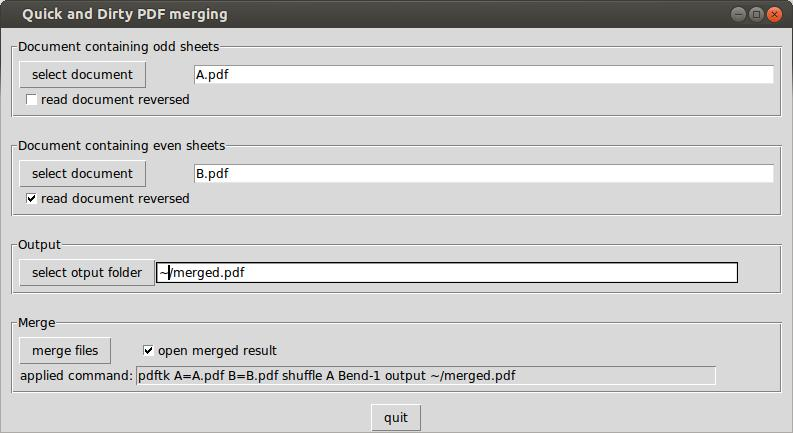
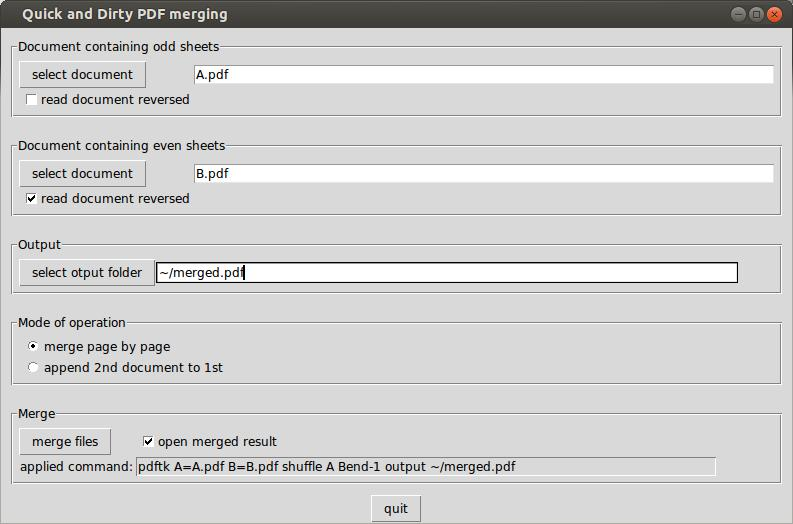
cleanup

Changed region(s): [[0.0, 0.0, 1.0, 1.0]]

diff --git a/bin/mergepdf.py b/bin/mergepdf.py
@@ -27,14 +27,9 @@ class MergePdfGui:
         self.defaultTextfieldWidth = 72
 
         self.isReverseDocumentBCheckboxValue = IntVar(False)
-        self.isReverseDocumentB = False
         self.isReverseDocumentACheckboxValue = IntVar(False)
-        self.isReverseDocumentA = False
-
         self.operationModeRadioButtonValue = StringVar()
-
         self.doOpenResultCheckboxValue = IntVar(False)
-        self.doOpenResult = False
         
         self.openFileOptions = {}
         self.openFileOptions['defaultextension'] = '.pdf'
@@ -51,33 +46,34 @@ class MergePdfGui:
         self.openDirectoryOptions['parent'] = self.rootWindow
         self.openDirectoryOptions['title'] = '"Select output directory"'
 
-    def __selectEvenPages(self):
-        self.openFileOptions["initialdir"] = self.__getLastAccessedFolder()
+    def __onSelectEvenPagesCallback(self):
+        self.openFileOptions["initialdir"] = self.__lastAccessedFolder()
         self.openFileOptions['title'] = "Select even pages"
         f = tkFileDialog.askopenfile(mode='r', **self.openFileOptions)
         self.evenPdfEntry.delete(0, END)
         self.evenPdfEntry.insert(0, f.name)
-        self.__updateAction()
         self.__setLastAccessedFolder(path.dirname(f.name))
+        self.__updateAction()
         return f
 
-    def __selectOddPages(self):
-        self.openFileOptions["initialdir"] = self.__getLastAccessedFolder()
+    def __onSelectOddPagesCallback(self):
+        self.openFileOptions["initialdir"] = self.__lastAccessedFolder()
         self.openFileOptions['title'] = "Select odd pages"
         f = tkFileDialog.askopenfile(mode='r', **self.openFileOptions)
         self.oddPdfEntry.delete(0, END)
         self.oddPdfEntry.insert(0, f.name)
-        self.__updateAction()
         self.__setLastAccessedFolder(path.dirname(f.name))
+        self.__updateAction()
         return f
 
-    def __selectOutDirectory(self):
-        self.openDirectoryOptions["initialdir"] = self.__getLastAccessedFolder()
+    def __onSelectOutDirectoryCallback(self):
+        self.openDirectoryOptions["initialdir"] = self.__lastAccessedFolder()
         self.openDirectoryOptions['title'] = "Select output directory"
         f = tkFileDialog.askdirectory(**self.openDirectoryOptions)
         self.outPdfEntry.delete(0, END)
         self.outPdfEntry.insert(0, "%s/merged.pdf" % (f))
         self.__setLastAccessedFolder(f)
+        self.__updateAction()
         return f
 
     def __updateAction(self):
@@ -85,76 +81,77 @@ class MergePdfGui:
         self.actionEntry.delete(0, END)
 
         reversedArgumentA=""
-        if self.isReverseDocumentA:
+        if self.isReverseDocumentACheckboxValue.get():
             reversedArgumentA="end-1"
 
         reversedArgumentB=""
-        if self.isReverseDocumentB:
+        if self.isReverseDocumentBCheckboxValue.get():
             reversedArgumentB="end-1"
 
         self.actionEntry.insert(0, "pdftk A=%s B=%s %s A%s B%s output %s"
                                 %(self.oddPdfEntry.get(),
                                   self.evenPdfEntry.get(),
-                                  self.__getOperationMode(),
+                                  self.__operationMode(),
                                   reversedArgumentA,
                                   reversedArgumentB,
                                   self.outPdfEntry.get()))
         self.actionEntry.configure(state='readonly')
 
-    # read state from shelve
-    def __getIsReverseDocumentdA(self):
-        if self.shelve.has_key("reverseA"):
-            return self.shelve["reverseA"]
+    # read value from shelve
+    def __readValueFromStore(self, index, defaultValue):
+        if self.shelve.has_key(index):
+            return self.shelve[index]
         else:
-            return False
+            return defaultValue
 
-    # store state to shelve
-    def __setIsReverseDocumentA(self, isReverseDocumentA):
-        self.shelve["reverseA"] = isReverseDocumentA
+    # write value to shelve
+    def __writeValueToStore(self, index, value):
+        self.shelve[index] = value
 
-    # read state from shelve
-    def __getIsReverseDocumentdB(self):
-        if self.shelve.has_key("reverseB"):
-            return self.shelve["reverseB"]
-        else:
-            return False
+    def __isReverseDocumentdA(self):
+        return self.__readValueFromStore("reverseA", False)
 
-    # store state to shelve
-    def __setIsReverseDocumentB(self, isReverseDocumentB):
-        self.shelve["reverseB"] = isReverseDocumentB
+    def __isReverseDocumentdB(self):
+        return self.__readValueFromStore("reverseB", False)
 
-    # read state from shelve
-    def __getLastAccessedFolder(self):
-        if self.shelve.has_key("folder"):
-            return self.shelve["folder"]
-        else:
-            return "~"
+    def __lastAccessedFolder(self):
+        return self.__readValueFromStore("folder", "~")
 
-    # store state to shelve
     def __setLastAccessedFolder(self, folder):
-        self.shelve["folder"] = folder
+        self.__writeValueToStore("folder", folder)
 
     # read state from shelve
-    def __getDoOpenResult(self):
-        if self.shelve.has_key("openResultAfterMerge"):
-            return self.shelve["openResultAfterMerge"]
-        else:
-            return False
-
-    # store state to shelve
-    def __setDoOpenResult(self, doOpenResult):
-        self.shelve["openResultAfterMerge"] = doOpenResult
+    def __isOpenResultChecked(self):
+        return self.__readValueFromStore("openResultAfterMerge", False)
 
     # read state from shelve
-    def __getOperationMode(self):
-        if self.shelve.has_key("operationMode"):
-            return self.shelve["operationMode"]
-        else:
-            return "shuffle"
+    def __operationMode(self):
+            return self.__readValueFromStore("operationMode", "shuffle")
 
-    # store state to shelve
-    def __setOperationMode(self, operationMode):
-        self.shelve["operationMode"] = operationMode
+    def __onModeChangedCallback(self):
+         self.__writeValueToStore("operationMode", self.operationModeRadioButtonValue.get())
+         self.__updateAction()
+
+    def __onDoOpenResultCheckboxCallback(self):
+        value = False
+        if self.doOpenResultCheckboxValue.get():
+            value = True
+        self.__writeValueToStore("openResultAfterMerge", value)
+
+    def __onIsReverseDocumentBCheckboxCallback(self):
+        value = False
+        if self.isReverseDocumentBCheckboxValue.get():
+            value = True
+        self.__writeValueToStore("reverseB", value)
+        self.__updateAction()
+
+    def __onIsReverseDocumentACheckboxCallback(self):
+        value = False
+        if self.isReverseDocumentACheckboxValue.get():
+            value = True
+        self.__writeValueToStore("reverseA", value)
+        self.__updateAction()
+
 
     def __quit(self):
         self.shelve.close()
@@ -162,62 +159,63 @@ class MergePdfGui:
 
     def __initWindow(self):
         docAGroup = LabelFrame(self.rootWindow, text="Document containing odd sheets", padx=5, pady=5)
-        #docAGroup.grid(row=2, column=0, columnspan=2)
         docAGroup.pack(padx=10, pady=10,fill='x')
-
-        Button(docAGroup, text ="select document", command = self.__selectOddPages).grid(row=0, column=0,sticky=W)
+        Button(docAGroup, text ="select document", command = self.__onSelectOddPagesCallback).grid(row=0, column=0,sticky=W)
         self.oddPdfEntry = Entry(docAGroup, width = self.defaultTextfieldWidth)
         self.oddPdfEntry.grid(row=0, column=1,sticky=W)
 
-        isReversedeACheckBtn = Checkbutton(docAGroup, text="read document reversed", variable=self.isReverseDocumentACheckboxValue, command=self.__isReverseDocumentACheckboxCallback)
+        isReversedeACheckBtn = Checkbutton(docAGroup, text="read document reversed",
+                                           variable=self.isReverseDocumentACheckboxValue,
+                                           command=self.__onIsReverseDocumentACheckboxCallback)
         isReversedeACheckBtn.grid(row=1, column=0, sticky=W)
-        if self.__getIsReverseDocumentdA():
+        if self.__isReverseDocumentdA():
             isReversedeACheckBtn.select()
 
 
         docBGroup = LabelFrame(self.rootWindow, text="Document containing even sheets", padx=5, pady=5)
-        #docBGroup.grid(row=2, column=0, columnspan=2)
         docBGroup.pack(padx=10, pady=10,fill='x')
-
-        Button(docBGroup, text ="select document", command = self.__selectEvenPages, justify=LEFT).grid(row=0, column=0,sticky=W)
+        Button(docBGroup, text ="select document", command = self.__onSelectEvenPagesCallback, justify=LEFT).grid(row=0, column=0,sticky=W)
         self.evenPdfEntry =  Entry(docBGroup, width = self.defaultTextfieldWidth)
         self.evenPdfEntry.grid(row=0, column=1)
 
-        isReversedBCheckBtn = Checkbutton(docBGroup, text="read document reversed", variable=self.isReverseDocumentBCheckboxValue, command=self.__isReverseDocumentBCheckboxCallback)
+        isReversedBCheckBtn = Checkbutton(docBGroup, text="read document reversed",
+                                          variable=self.isReverseDocumentBCheckboxValue,
+                                          command=self.__onIsReverseDocumentBCheckboxCallback)
         isReversedBCheckBtn.grid(row=1, column=0)
-        if self.__getIsReverseDocumentdB():
+        if self.__isReverseDocumentdB():
             isReversedBCheckBtn.select()
 
 
         outDdocGroup = LabelFrame(self.rootWindow, text="Output", padx=5, pady=5)
-        #outDdocGroup.grid(row=2, column=0, columnspan=2)
         outDdocGroup.pack(padx=10, pady=10,fill='x')
-        Button(outDdocGroup, text ="select otput folder", command = self.__selectOutDirectory).grid(row=0, column=0, sticky=W)
+        Button(outDdocGroup, text ="select otput folder", command = self.__onSelectOutDirectoryCallback).grid(row=0, column=0, sticky=W)
         self.outPdfEntry =  Entry(outDdocGroup, width = self.defaultTextfieldWidth)
         self.outPdfEntry.grid(row=0, column=1)
-        self.outPdfEntry.insert(0, self.__getLastAccessedFolder() + "/merged.pdf")
+        self.outPdfEntry.insert(0, self.__lastAccessedFolder() + "/merged.pdf")
 
 
-        modeGroup = LabelFrame(self.rootWindow, text="Mode", padx=5, pady=5)
+        modeGroup = LabelFrame(self.rootWindow, text="Mode of operation", padx=5, pady=5)
         modeGroup.pack(padx=10, pady=10, fill="x")
-        modeRadio = Radiobutton(modeGroup, text="merge", variable=self.operationModeRadioButtonValue, value="shuffle", command=self.__modeChangedCallback)
-        modeRadio.grid(row=0, column=0, sticky=W)
-        modeRadio.config(state=NORMAL)
-        modeRadio.select()
-        modeRadio = Radiobutton(modeGroup, text="append", variable=self.operationModeRadioButtonValue, value="cat", command=self.__modeChangedCallback)
-        modeRadio.grid(row=1, column=0, sticky=W)
-        modeRadio.deselect()
+        modeRadioBtn = Radiobutton(modeGroup, text="merge page by page", variable=self.operationModeRadioButtonValue, value="shuffle",
+                                command=self.__onModeChangedCallback)
+        modeRadioBtn.grid(row=0, column=0, sticky=W)
+        if self.__operationMode() == "shuffle":
+            modeRadioBtn.select()
+        modeRadioBtn = Radiobutton(modeGroup, text="append 2nd document to 1st", variable=self.operationModeRadioButtonValue, value="cat",
+                                command=self.__onModeChangedCallback)
+        modeRadioBtn.grid(row=1, column=0, sticky=W)
+        if self.__operationMode() == "cat":
+            modeRadioBtn.select()
+
 
         actionsGroup = LabelFrame(self.rootWindow, text="Merge", padx=5, pady=5)
-        #actionsGroup .grid(row=2, column=0, columnspan=2)
         actionsGroup .pack(padx=10, pady=10,fill='x')
-        actionBtn = Button(actionsGroup , text ="merge files", command = self.__shufflePdf)
+        actionBtn = Button(actionsGroup , text ="merge files", command = self.__mergePdf)
         actionBtn.grid(row=0, column=0,sticky=W)
-        #openDoc = Button(actionsGroup, text="view output", command=lambda : subprocess.call("xdg-open " + self.outPdfEntry.get(), shell=True))
-        #openDoc.grid(row=0, column=1,sticky=W)
-        doOpenOutput = Checkbutton(actionsGroup, text="open merged result", variable=self.doOpenResultCheckboxValue, command=self.__doOpenResultCheckboxCallback)
+        doOpenOutput = Checkbutton(actionsGroup, text="open merged result", variable=self.doOpenResultCheckboxValue,
+                                   command=self.__onDoOpenResultCheckboxCallback)
         doOpenOutput.grid(row=0, column=1, sticky=W)
-        if self.__getDoOpenResult():
+        if self.__isOpenResultChecked():
             doOpenOutput.select()
 
 
@@ -227,48 +225,19 @@ class MergePdfGui:
         self.actionEntry.configure(state='readonly')
         self.actionEntry.grid(row=1, column=1)
 
+
         quitBtn = Button(self.rootWindow, text ="quit", command = self.__quit)
         quitBtn.pack()
 
-    def __modeChangedCallback(self):
-        self.__setOperationMode(self.operationModeRadioButtonValue.get())
-        self.__updateAction()
 
-
-    def __doOpenResultCheckboxCallback(self):
-        value = False
-        if self.doOpenResultCheckboxValue.get():
-            value = True
-
-        self.__setDoOpenResult(value)
-        self.doOpenResult= value
-
-    def __isReverseDocumentBCheckboxCallback(self):
-        value = False
-        if self.isReverseDocumentBCheckboxValue.get():
-            value = True
-
-        self.__setIsReverseDocumentB(value)
-        self.isReverseDocumentB = value
-        self.__updateAction()
-
-    def __isReverseDocumentACheckboxCallback(self):
-        value = False
-        if self.isReverseDocumentACheckboxValue.get():
-            value = True
-
-        self.__setIsReverseDocumentA(value)
-        self.isReverseDocumentA = value
-        self.__updateAction()
-
-    def __shufflePdf(self):
+    def __mergePdf(self):
         self.__updateAction()
         status, output = commands.getstatusoutput(self.actionEntry.get())
         if not status == 0:
             print("status %s\noutput:\n%s" % (status, output))
             tkMessageBox.showinfo("Error", output)
         else:
-            if self.__getDoOpenResult():
+            if self.__isOpenResultChecked():
                 subprocess.call("xdg-open " + self.outPdfEntry.get(), shell=True)
 
     def run(self):
